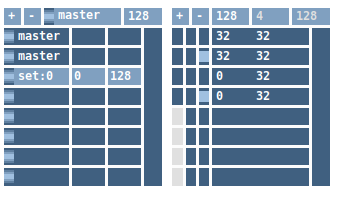
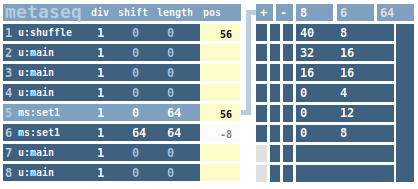
update metaseq screenshot

diff --git a/content/instruments/metaseq/index.md b/content/instruments/metaseq/index.md
@@ -6,6 +6,9 @@ title: 'metaseq'
 
 ![metaseq](metaseq.png)
 
+**NOTE** Above images show new version of **metaseq** that is compatible with
+[untik](../untik/). However, the documentation below hasn't been (fully ) updated.
+
 **metaseq** is a time-line slicer that acts as a middle man between the [master](../master) clock and a
 sequencer. It lets you arrange timeline segments freely in order to create more complex
 sequencing structures. Such arrangements are organized in sets. Sets can be chained in
